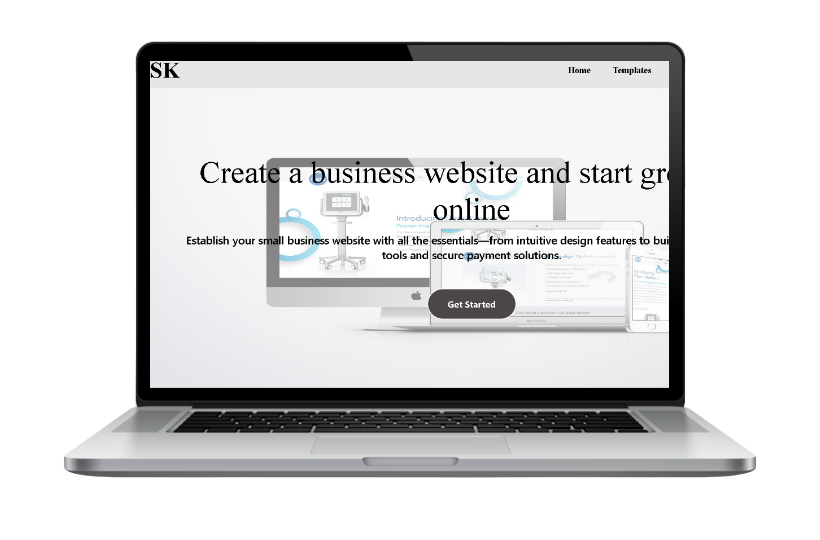
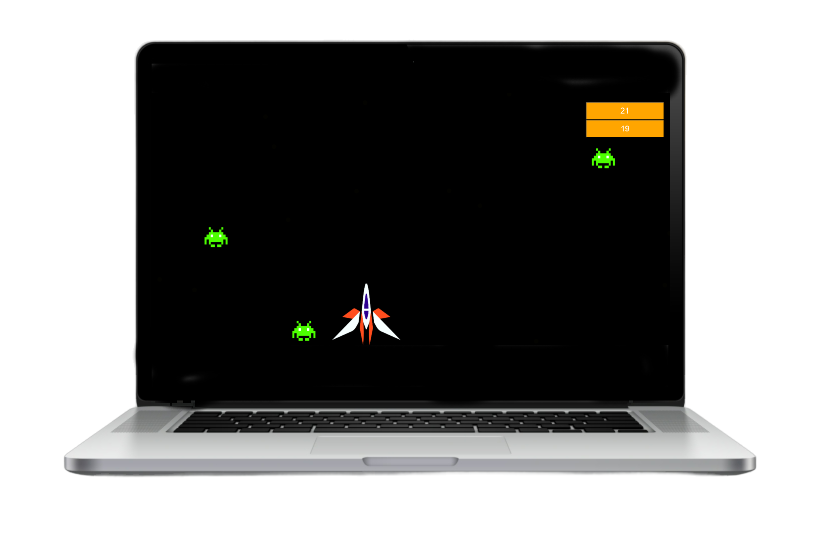
sure

diff --git a/src/Component/Projects/Projects.jsx b/src/Component/Projects/Projects.jsx
@@ -54,7 +54,7 @@ function Projects() {
           <img className="proj1" src={proj2} alt="project1"></img>
         </div>
         <div className="project2desc">
-          <div className="project2title">Sk template.</div>
+          <div className="project2title">Space Invader.</div>
           <div
             style={{
               fontSize: "20px",
@@ -64,11 +64,9 @@ function Projects() {
               padding: "10px",
             }}
           >
-            Sktemplate website is based on ecommerce which contains some
-            templates based on Html ,Css ,Javascript and react and it allows to
-            downloading the templates option on the bases of subscription plan
-            created by using stripe integration , Google authentication using
-            Firebase ,Reactjs ,HTML5 element(Canvas).
+            This is a Spaceinvader Game made by HTML5 element (canvas) totally
+            manuplated with Javascript with sound effect and different kind of
+            animation (a race for scoring more and more).
           </div>
           <a href="https://skplate.vercel.app/" target="_blank">
             {" "}
